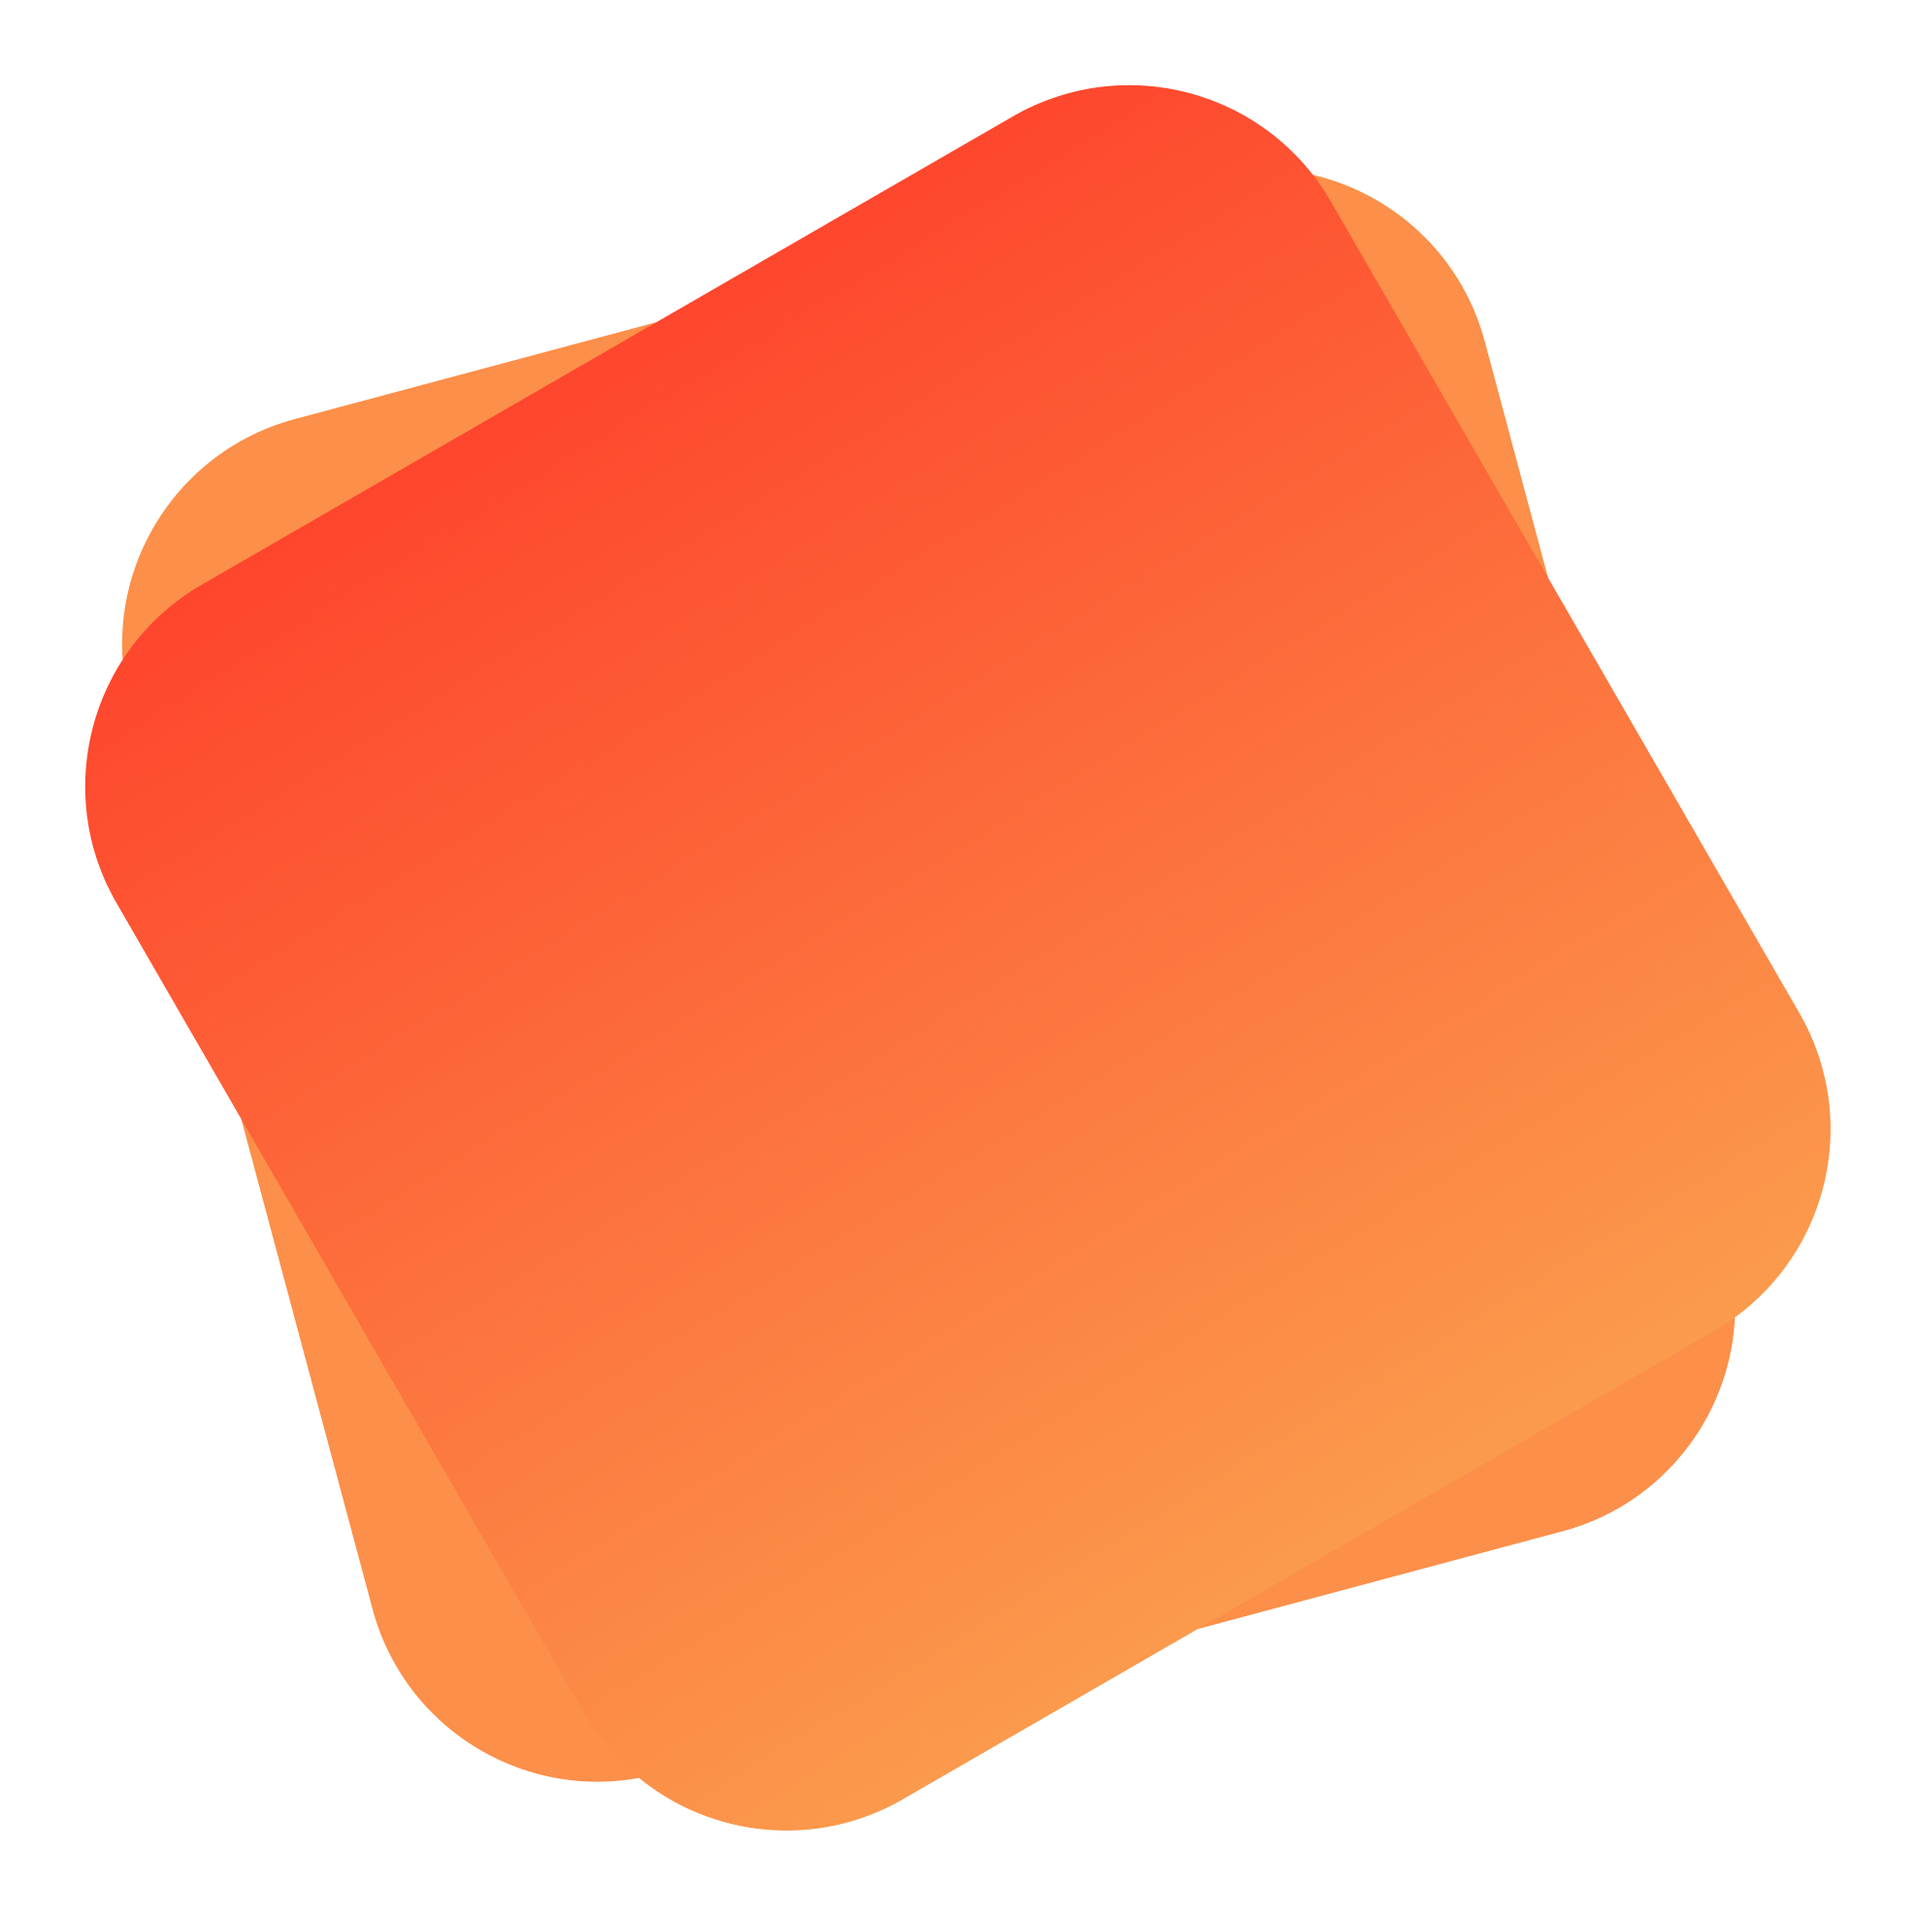
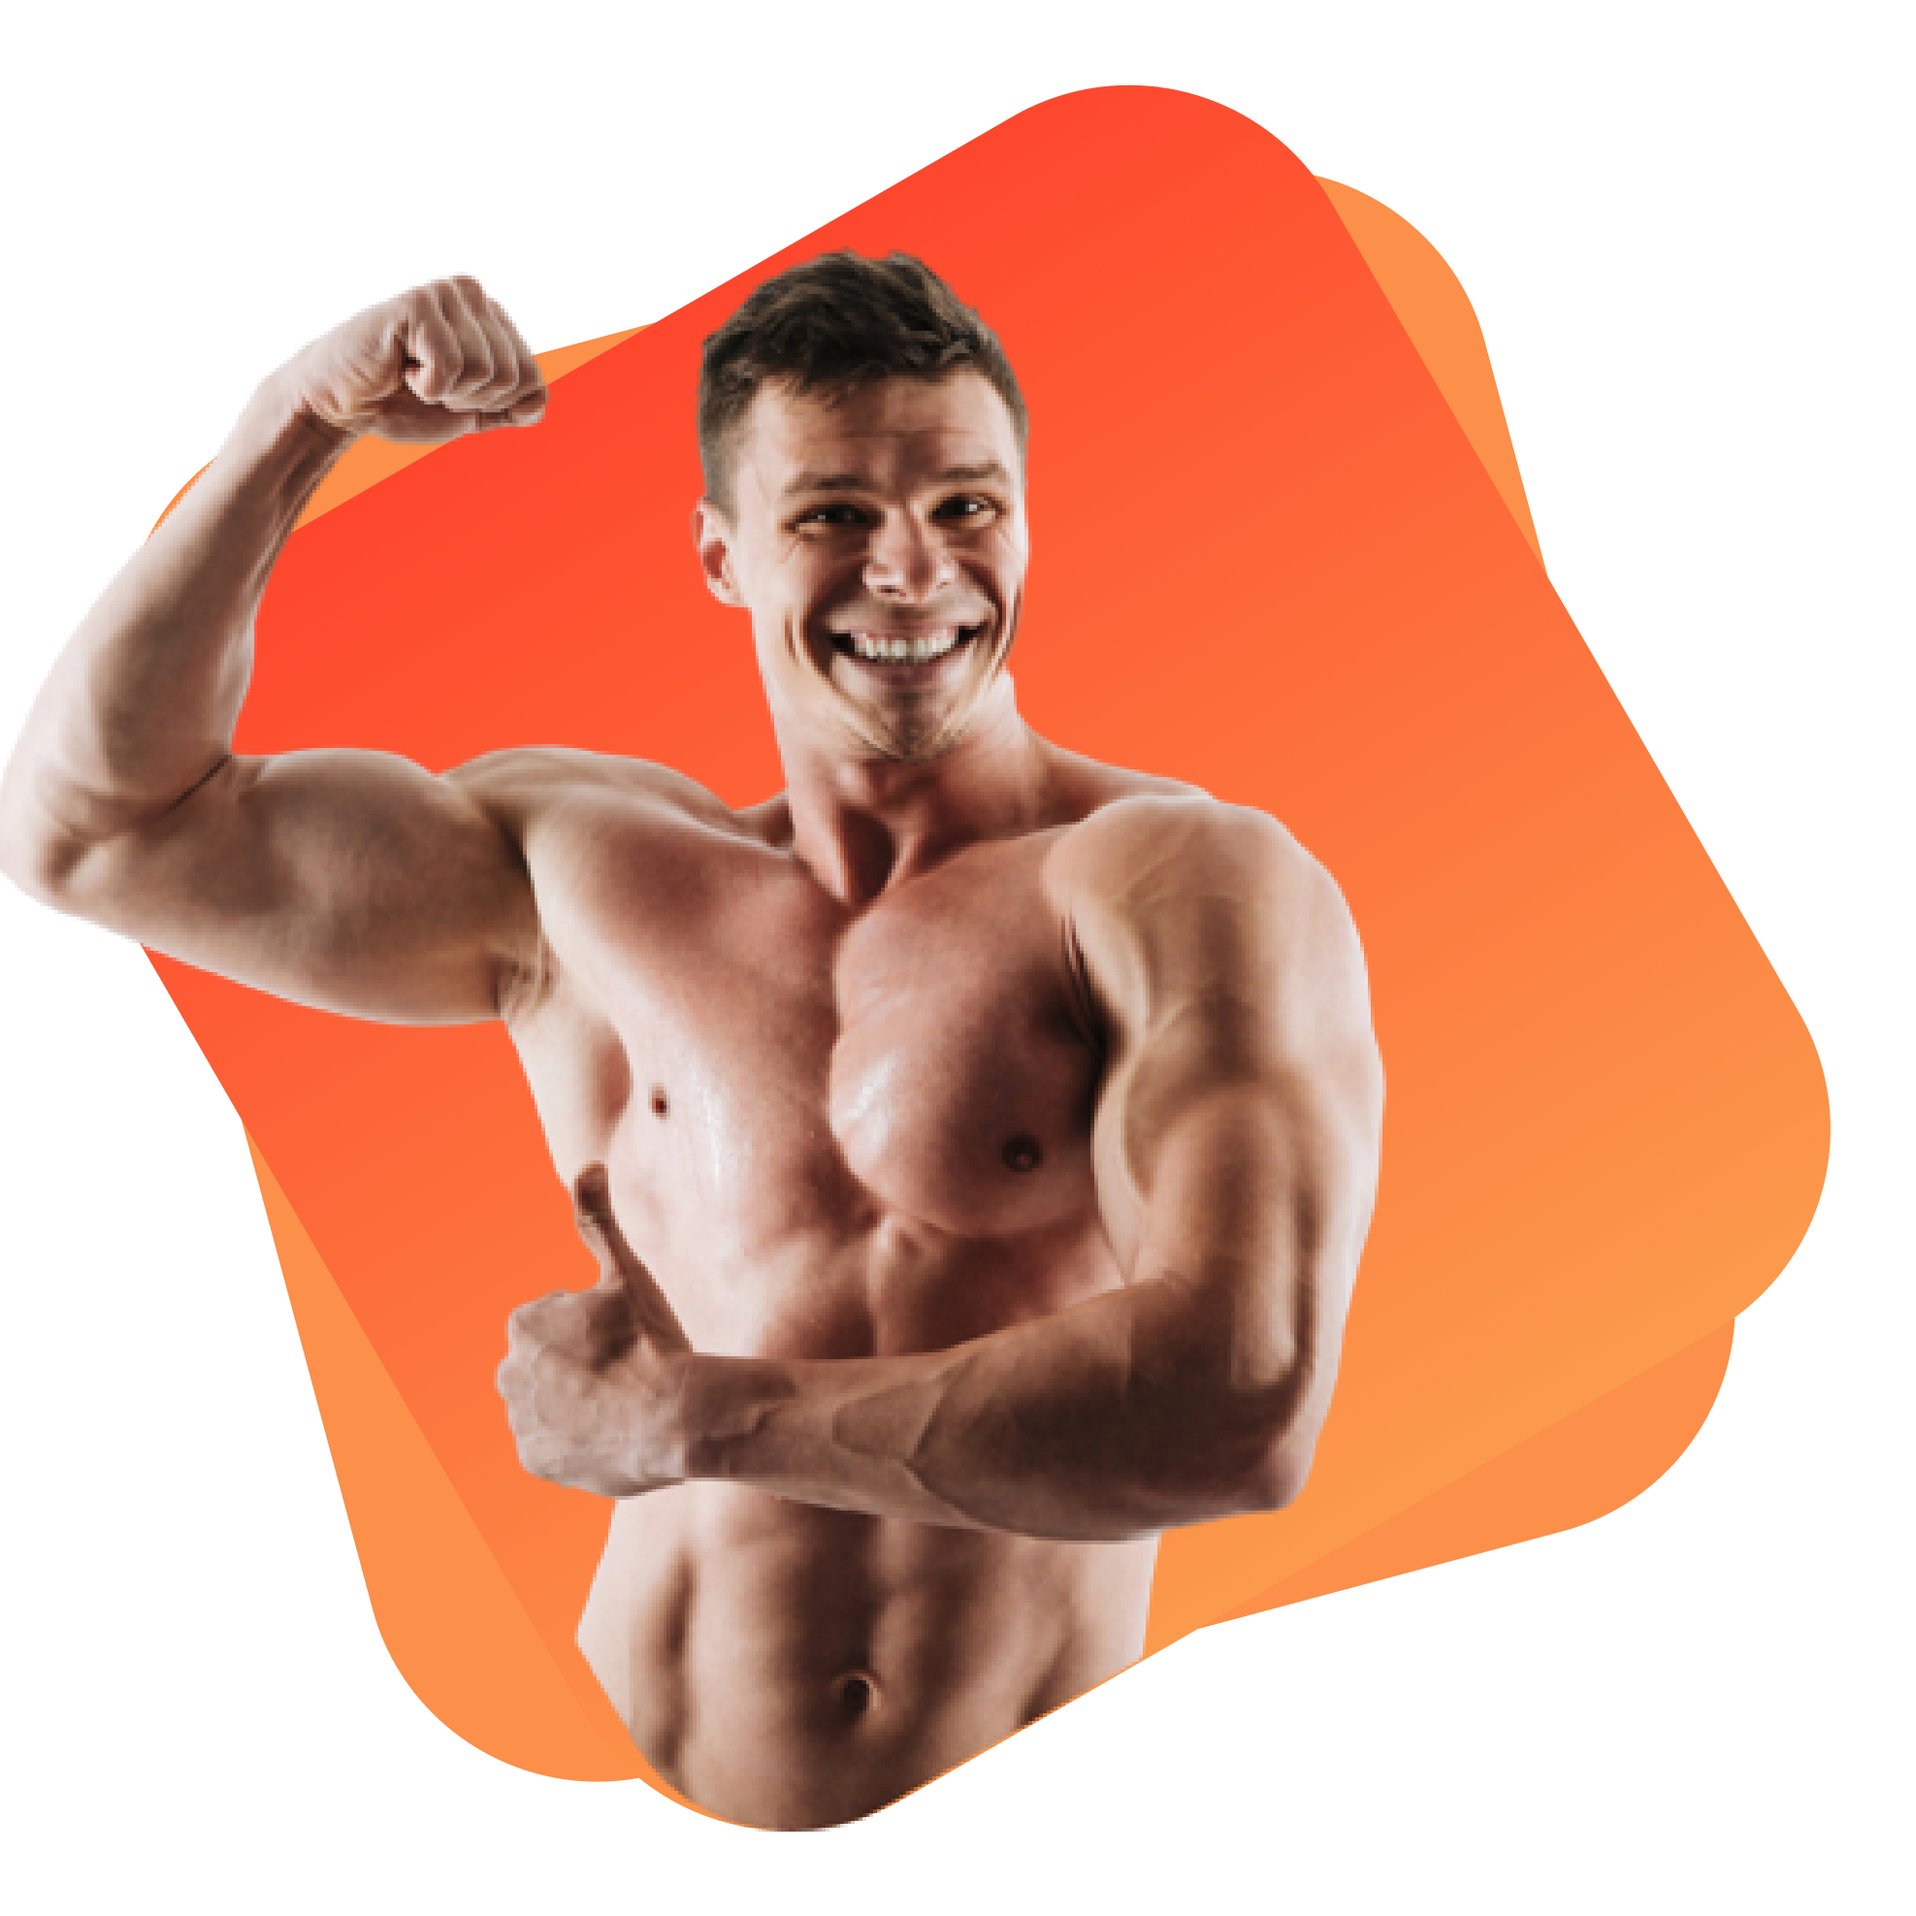
done

Changed region(s): [[0.0, 0.1235, 0.7413, 0.9575]]

diff --git a/index.html b/index.html
@@ -1,0 +1,78 @@
+<!DOCTYPE html>
+<html lang="en">
+<head>
+    <meta charset="UTF-8">
+    <meta http-equiv="X-UA-Compatible" content="IE=edge">
+    <meta name="viewport" content="width=device-width, initial-scale=1.0">
+    <title>Document</title>
+    <link rel="preconnect" href="https://fonts.googleapis.com">
+    <link rel="preconnect" href="https://fonts.gstatic.com" crossorigin>
+    <link href="https://fonts.googleapis.com/css2?family=Poppins&display=swap" rel="stylesheet">
+    <link rel="stylesheet" href="style.css">
+</head>
+<body>
+   <section class="food-order">
+    <div id="h1-padding" class="half-width">
+        <h1><span class="orange-color">Skip</span> The Deit, <br> Just Eat Healthy <br> With Food Network</h1>
+        <p>Healthy food is food that gives <br> you all the nutrients you need to stay healthy, feel well <br> and have plenty of energy.</p>
+        <a class="link-button" href="#">ORDER FOOD</a>
+    </div>
+    <div class="half-width">
+        <img src="./img/Group 8450.png" alt="">
+    </div>
+   </section>
+   <section class="flex-flex">
+    <div id="hasan" class="about-me">
+        <img src="./img/Person Image.png" alt="">
+    </div>
+    <div id="mehedi" class="about-me">
+        <h1>ABOUT ME</h1>
+        <p>Lorem ipsum dolor sit amet consectetur adipisicing elit. Natus temporibus eius provident tempora labore dolorum est, quae dicta tempore perspiciatis odio fugiat esse quod, odit, dolor adipisci libero illum eum.</p>
+        <a class="link-button" href="#">CONTACT ME</a>
+    </div>
+   </section>
+   <section>
+    <div class="my-recipies">
+        <h1>MY RECIPIES</h1>
+        <p>Lorem ipsum dolor, sit amet consectetur adipisicing elit. <br>
+           Illum, omnis! Beatae molestiae similique laborum, voluptatum, <br>
+           necessitatibus autem veritatis quod perferendis explicabo repellat <br>
+           a quia rerum odit sed facilis alias asperiores.</p>
+    </div>
+   </section>
+   <section class="recipie-title">
+    <div class="border-shadow">
+        <img src="./img/Project Cover.jpg" alt="">
+        <h1>RECIPIE TITLE</h1>
+        <p>Lorem ipsum dolor sit amet, consectetur adipisicing elit.
+           Cum placeat facilis quo rerum ex assumenda, alias nostrum 
+           deserunt saepe vitae.</p>
+    </div>
+    <div class="border-shadow">
+        <img src="./img/Project Cover.jpg" alt="">
+        <h1 >RECIPIE TITLE</h1>
+        <p>Lorem ipsum dolor sit amet, consectetur adipisicing elit.
+           Cum placeat facilis quo rerum ex assumenda, alias nostrum 
+           deserunt saepe vitae.</p>
+    </div>
+   </section>
+   <section class="flexible">
+    <div class="flexible-item">
+        <h1>700k</h1>
+        <p>YOUTUBE SUSCRIBER</p>
+    </div>
+    <div class="flexible-item">
+        <h1>100k</h1>
+        <p>INSTAGRAM FOLLOWER</p>
+    </div>
+    <div class="flexible-item">
+        <h1>400k</h1>
+        <p>FACEBOOK FOLLOWER</p>
+    </div>
+   </section>
+   <footer class="footer">
+    <h1><span class="orange-color">Eat</span> Fresh</h1>
+    <p>Eat healthy to live helthay.Live healthy to live happy.</p>
+   </footer>
+</body>
+</html>

diff --git a/style.css b/style.css
@@ -1,0 +1,106 @@
+body{
+    font-family: 'Poppins', sans-serif;
+    padding: 0px;
+    margin: 0px;
+}
+h1{
+    font-size: 40px;
+    font-family: Arial, Helvetica, sans-serif;
+}
+p{
+    font-size: 20px;
+    padding-bottom: 2%;
+}
+.food-order{
+    display: flex;
+    padding-bottom: 50px;
+}
+.half-width{
+    width: 50%;
+    padding-top: 50px;
+}
+#h1-padding{
+    padding-left:50px ;
+    width: 80%;
+}
+.half-width img{
+    width:80%;
+}
+.orange-color{
+    color: orange;
+}
+.link-button{
+    text-decoration: none;
+    padding: 10px 40px;
+    background-image: linear-gradient(orange,tomato);
+    border-radius: 10px;
+}
+.about-me{
+    width: 50%;
+}
+.about-me img{
+    width: 60%;
+    padding-left: 20%;
+    height: 100%;
+}
+.flex-flex{
+    display: flex;
+    background-image: url(./img/Frame\ 58.jpg);
+    background-position: center;
+    background-repeat: no-repeat;
+    background-size: 100% 100%;
+    height: 100vh;
+    background-size: cover;
+}
+#mehedi{
+    padding-top: 200px;
+    width: 80%;
+
+}
+#hasan{
+    width: 80%;
+}
+.my-recipies{
+    text-align: center;
+    padding-bottom: 50px;
+}
+.my-recipies h1{
+    font-size: 50px;
+    font-family: Arial, Helvetica, sans-serif;
+}
+.recipie-title{
+    display: flex;
+    padding-bottom: 100px;
+
+}
+.border-shadow{
+    width: 50%;
+    margin-left: 5%;
+    margin-right: 5%;
+    box-shadow: 10px 10px 40px gray;
+    border-radius: 35px;
+    padding: 20px 20px;
+}
+.border-shadow img{
+    width: 100%;
+}
+.flexible{
+    display: flex;
+    padding-bottom: 100px;
+}
+.flexible-item{
+    margin-left: 5%;
+    margin-right: 5%;
+    width: 30%;
+    text-align: center;
+    box-shadow: 10px 10px 40px gray;
+    border-radius: 10px;
+
+}
+.footer{
+    background-color: black;
+    text-align: center;
+    color: white;
+    height: 180px;
+    padding-top: 20PX;
+}
